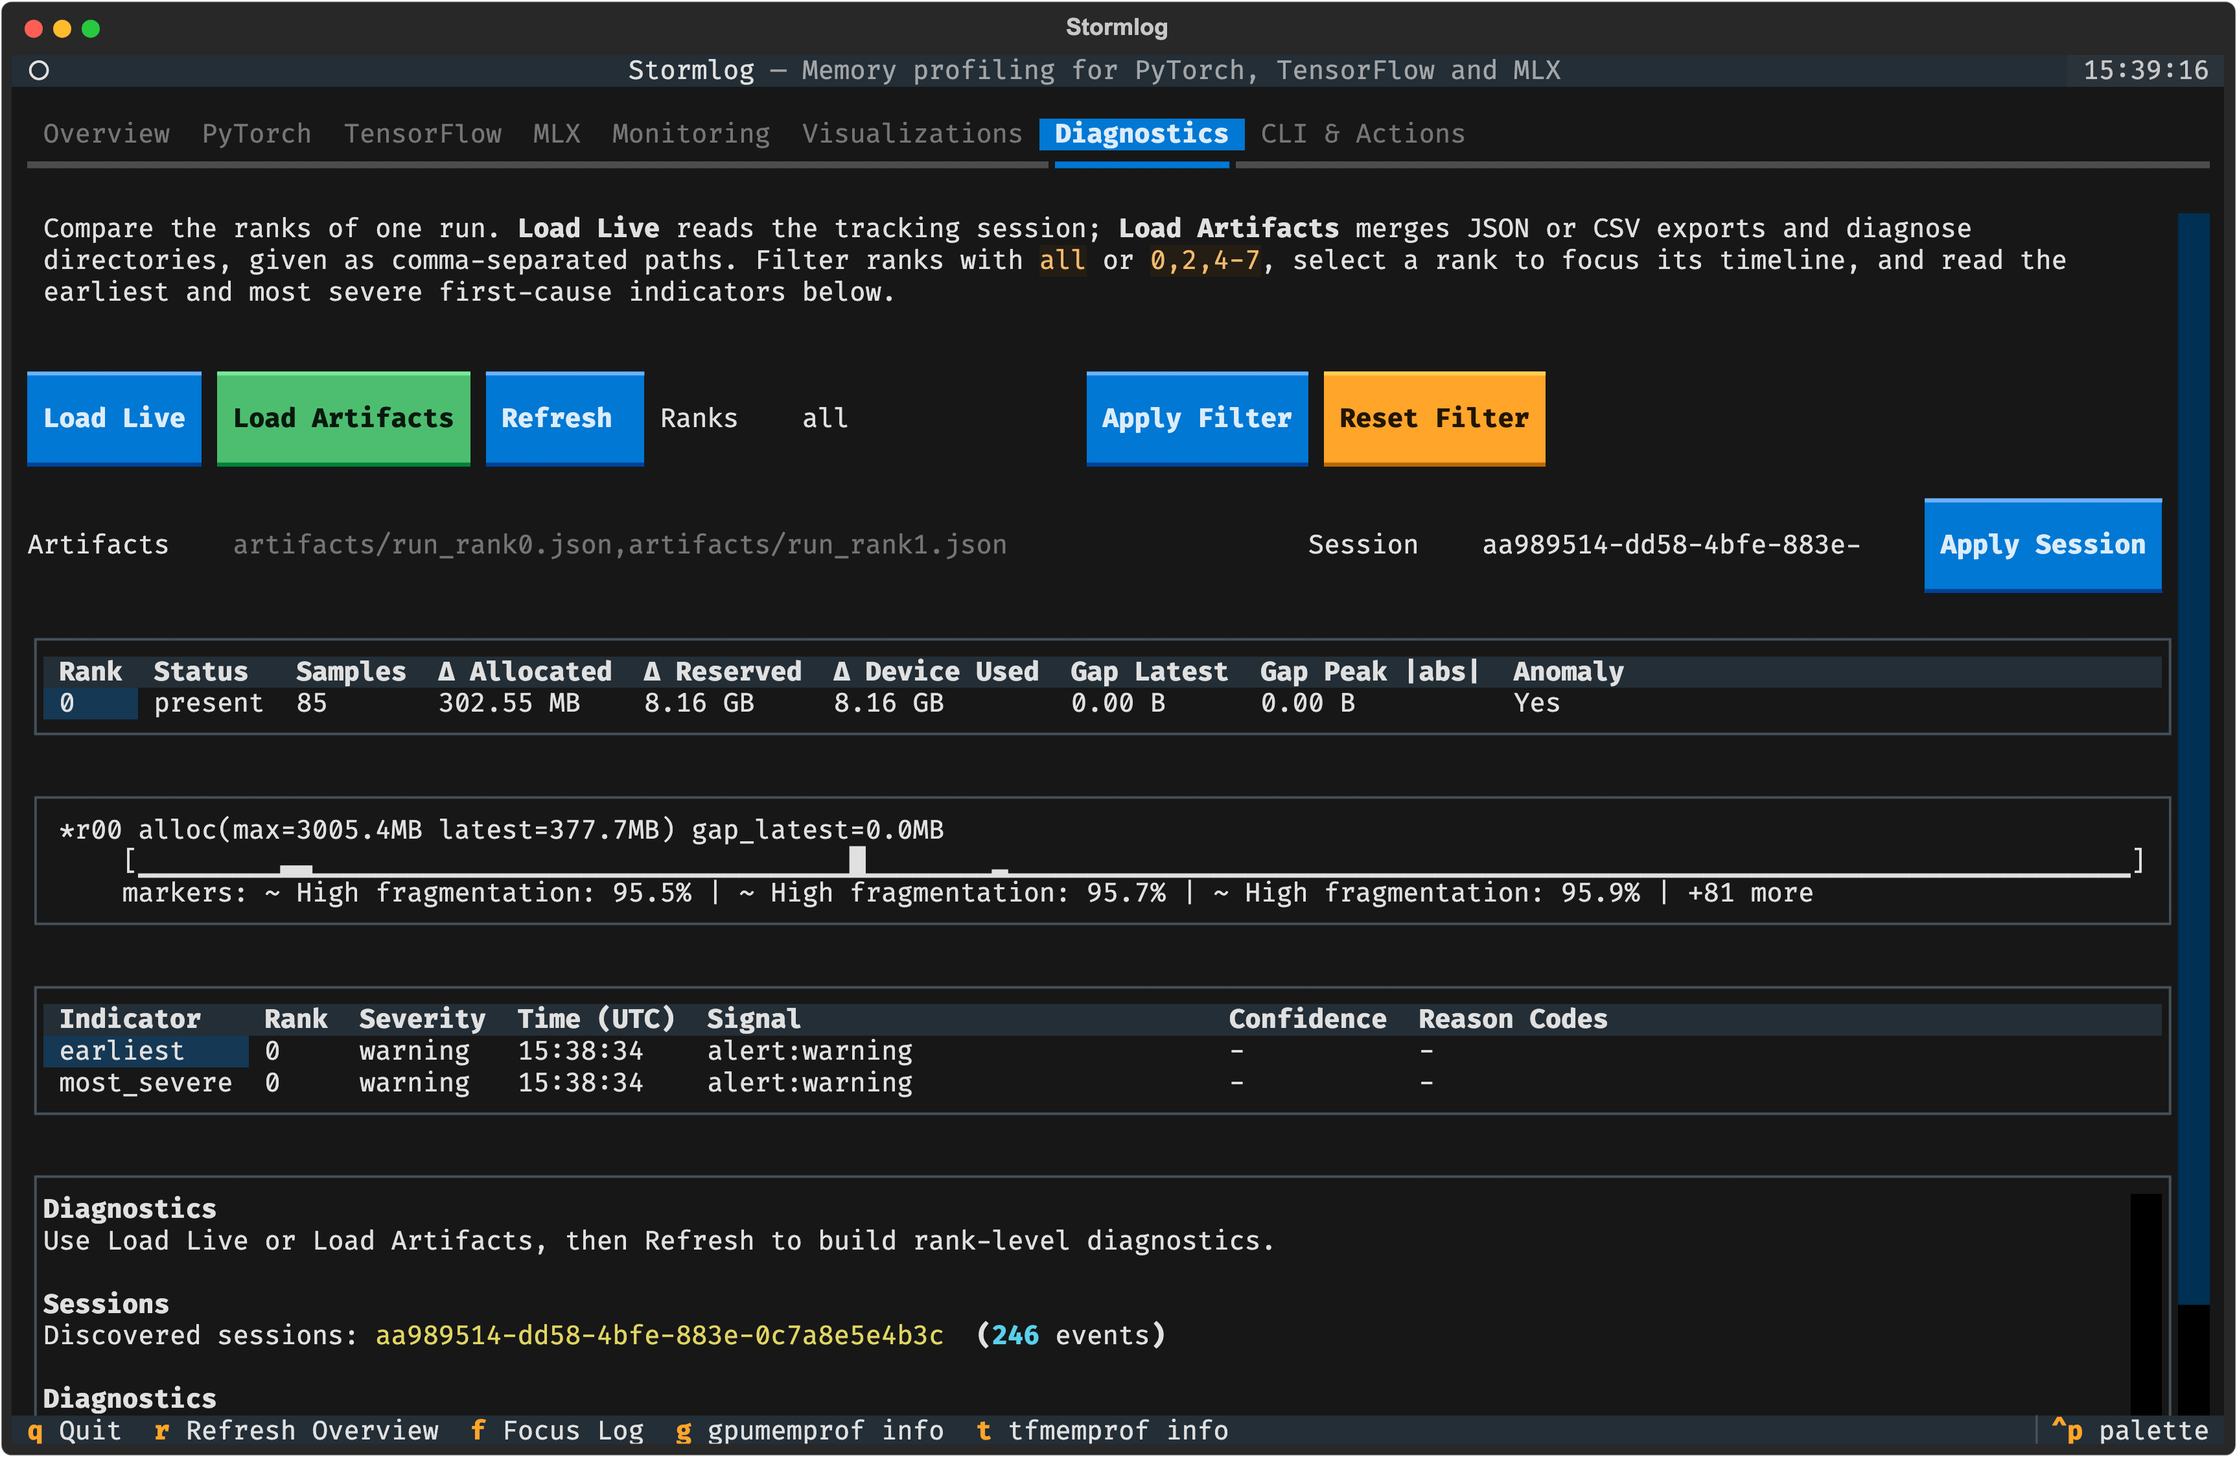
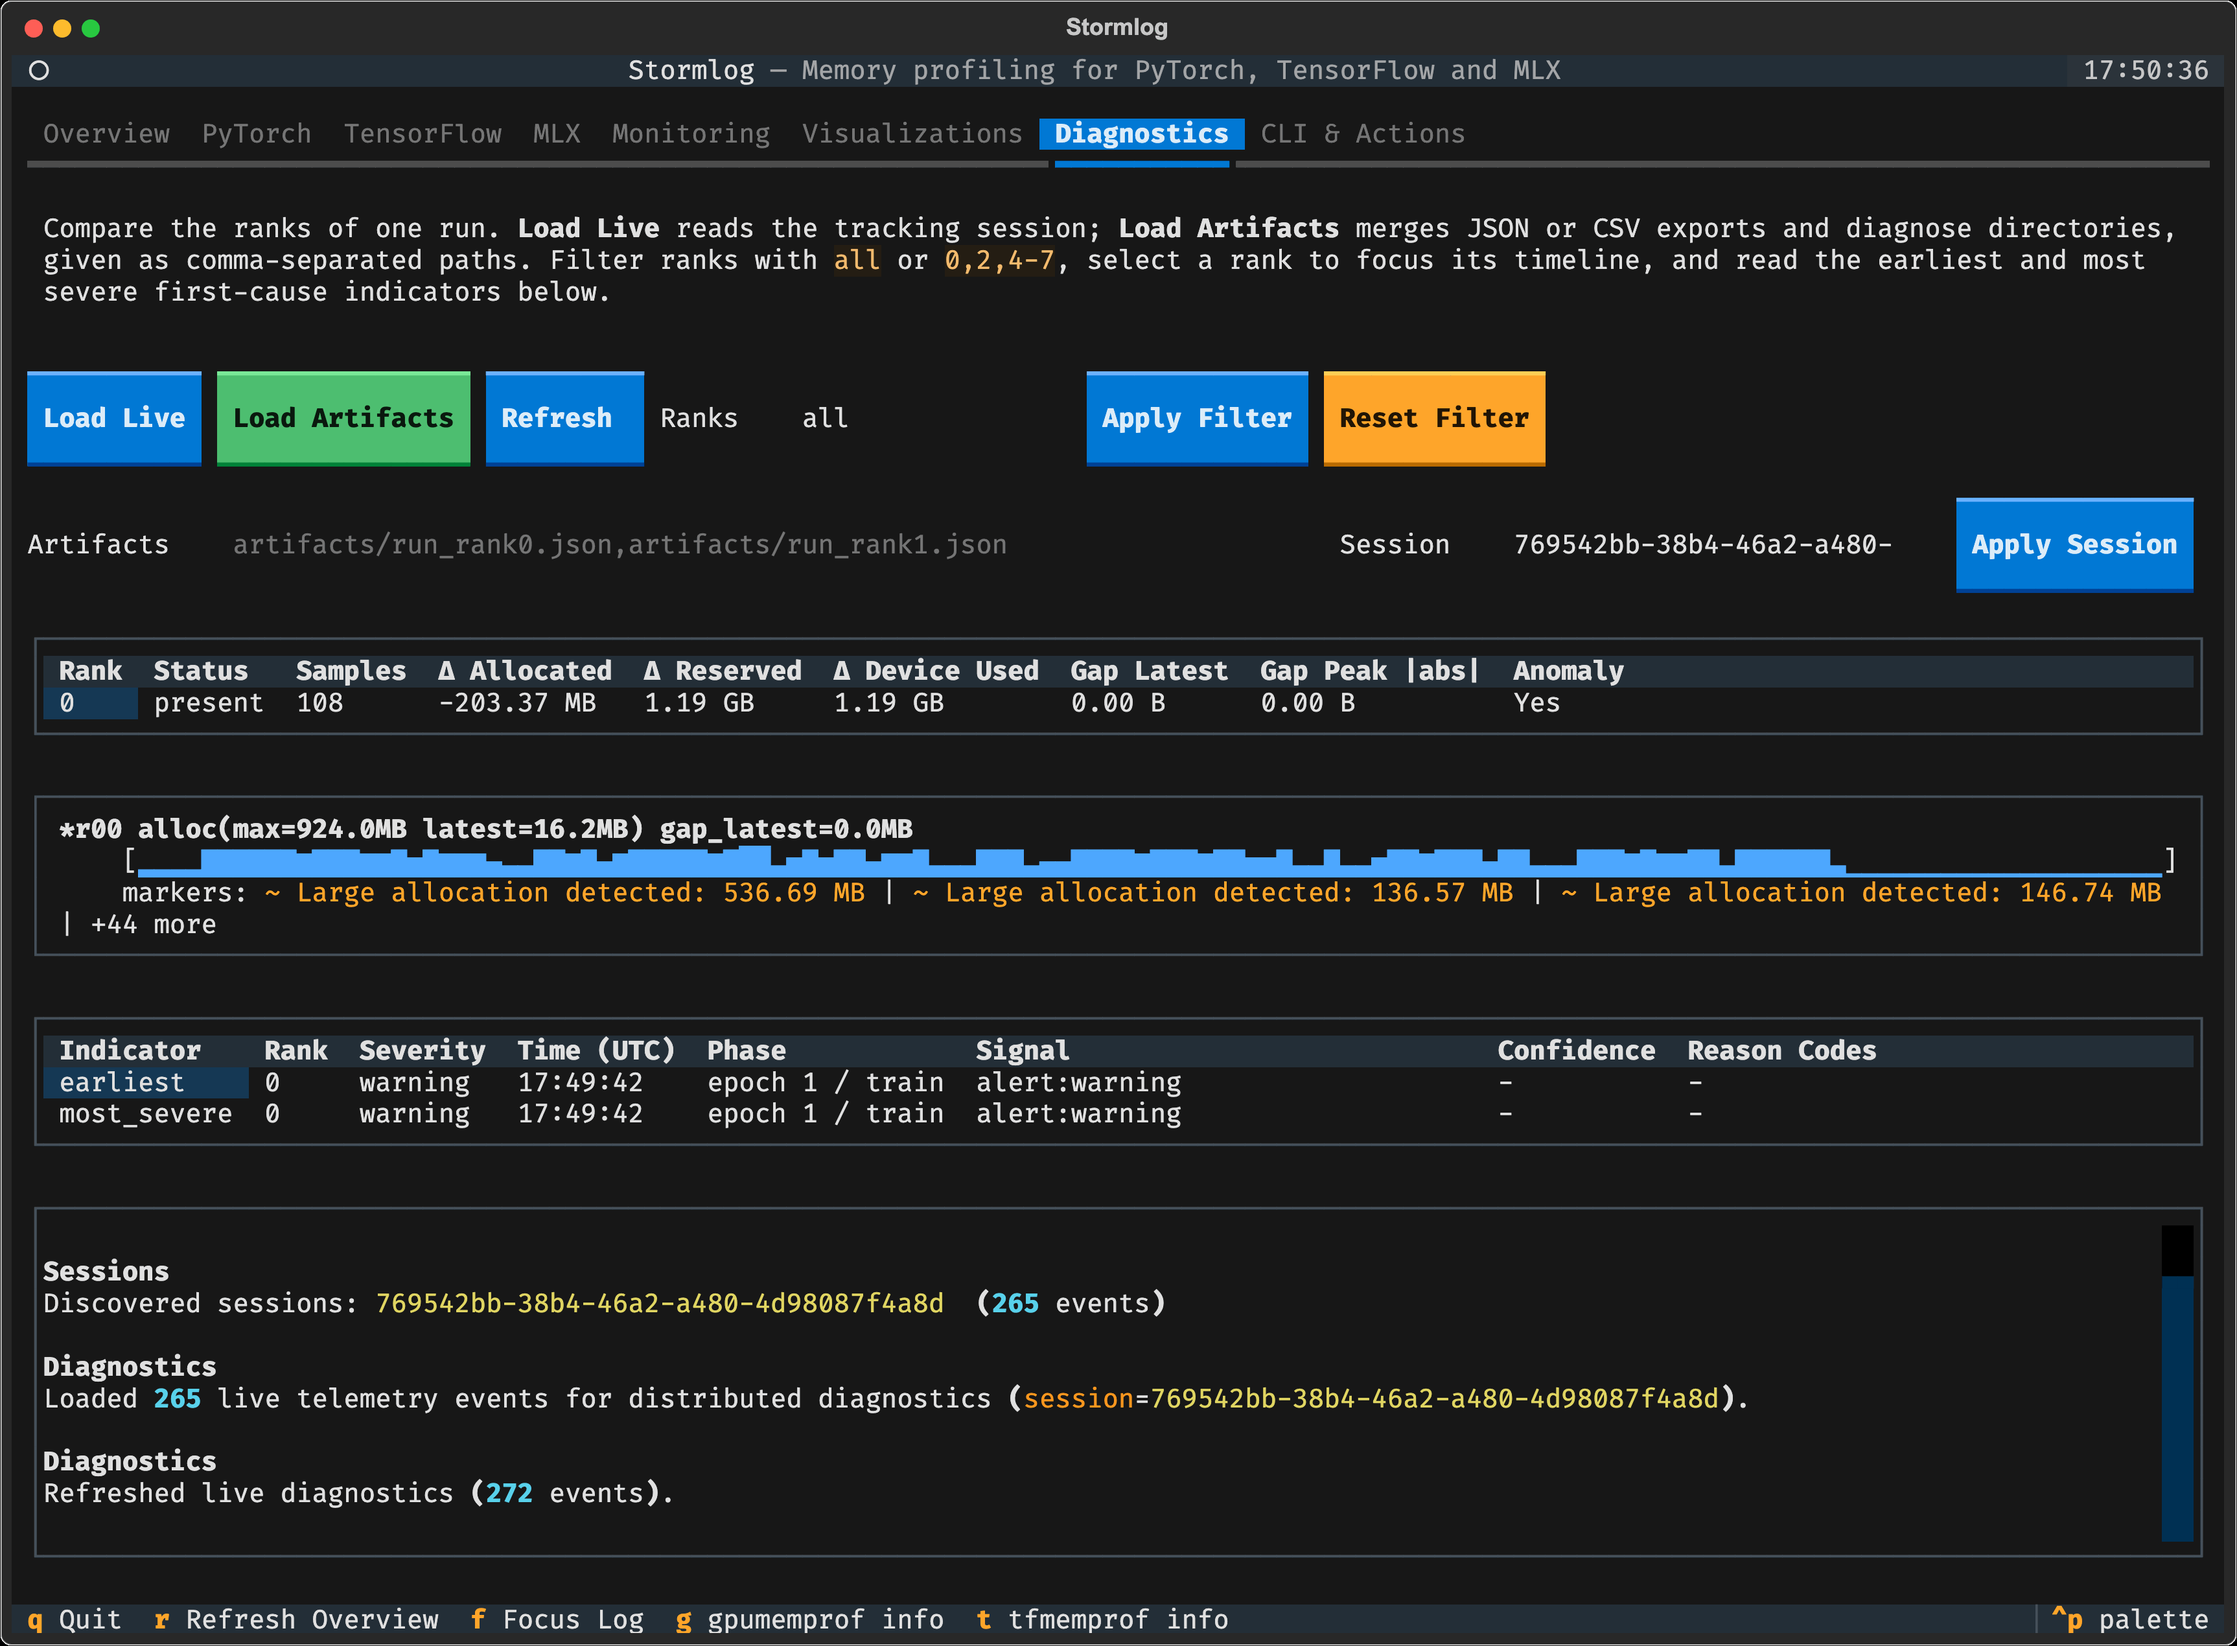
docs: show a real training run in the README and the TUI guide
The screenshots are retaken while ResNet-18 trains on CIFAR-10 for six
epochs on an NVIDIA L4 (87.8% test accuracy). The README's training
image is now the Diagnostics tab: the coloured memory timeline, its
markers, and the first anomaly attributed to epoch 1 / train. The
diagnosis screenshot is re-rendered in colour from the same L4 run's
output. The guide and changelog describe the phase column, the coloured
timelines and the fragmentation fix; the provenance record names the
workload and its result.

diff --git a/CHANGELOG.md b/CHANGELOG.md
@@ -539,8 +539,9 @@ the flaky benchmark memory gates
 ### Changed
 
 - The terminal UI is titled Stormlog. Its tabs have compact, labelled controls;
-  timelines span the panel in block elements; repeated alerts share one row
-  with a count, newest first; and the MLX tab describes its device in words.
+  timelines span the panel in coloured block elements, one colour per series;
+  repeated alerts share one row with a count, newest first; Diagnostics names
+  each indicator's phase; and the MLX tab describes its device in words.
 - The README is rewritten around training and inference, with screenshots
   taken on an NVIDIA L4 by `examples/scenarios/modal_readme_media.py`.
 - **Breaking:** `stormlog infer analyze` JSON is `analysis_version: 2`.
@@ -662,8 +663,20 @@ the flaky benchmark memory gates
 - The terminal UI's Markdown guides rendered empty, the PyTorch and TensorFlow
   samples never reached their tabs, and controls on the Monitoring and
   Diagnostics tabs were clipped. All three are fixed.
-- `MemoryTracker` no longer warns "High fragmentation" when nothing is
-  allocated. On Apple MPS every sample used to raise the warning.
+- Fragmentation means inactive split blocks over reserved memory everywhere,
+  as `gpumemprof diagnose` already defined it: the tracker's warning, the
+  derived `fragmentation_ratio`, gap analysis's `fragmentation_like` and the
+  analyzer. They took reserved minus allocated, which is PyTorch's reusable
+  cache, so an ordinary ResNet-18 run on an L4 read about 96% and warned on
+  every sample; that share is now `allocator_cache_ratio`. Without an
+  inactive-split counter fragmentation is unavailable (`None`), and the MPS
+  and CPU collectors no longer claim fragmentation analysis. The advice for
+  fragmentation no longer suggests `torch.cuda.empty_cache()`.
+- `MemoryTracker`'s first sample sets its baseline. Memory allocated before
+  tracking started, such as a model already on the device, counted as a
+  large allocation of the session and became its earliest anomaly.
+- The TUI's PyTorch and TensorFlow samples log their own run, not the shared
+  profiler's running totals.
 - `stormlog infer analyze` no longer keeps the first of two different
   deliveries of a request's vLLM span. That request, and any request with more
   than one span, is quarantined: its spans are left out of the case's span

diff --git a/docs/tui.md b/docs/tui.md
@@ -129,9 +129,9 @@ found, the Diagnostics tab defaults to the newest `completed` session and lets
 you switch to another one by entering its id in `Session` and applying it.
 Filter ranks in `Ranks`.
 
-If the loaded telemetry contains `phase_enter` / `phase_exit` records, rank rows
-and earliest-indicator details show the resolved phase path directly in the
-Diagnostics model.
+If the loaded telemetry contains `phase_enter` / `phase_exit` records, the
+indicator table's Phase column shows each indicator's resolved phase path,
+for example `epoch 1 / train`, and rank rows carry it in the Diagnostics model.
 
 When the product is choosing a useful winner from an otherwise ambiguous phase
 set, the TUI surfaces that with a `(likely)` marker instead of flattening it
@@ -180,8 +180,9 @@ Use this tab when you want to kick off a CLI flow and keep the output attached t
 3. Review the inline log output.
 4. If you need more detail, rerun the same command in a normal shell and archive the artifacts.
 
-The screenshots on this page come from the shipped TUI on an NVIDIA L4, with
-a PyTorch training loop running in the same process, except the MLX tab, which
+The screenshots on this page come from the shipped TUI on an NVIDIA L4 while
+ResNet-18 trained on CIFAR-10 for six epochs in the same process, each epoch's
+training and evaluation marked as tracker phases, except the MLX tab, which
 was taken on Apple Silicon. `examples/scenarios/tui_screenshots.py` takes them
 on any machine, and `examples/scenarios/modal_readme_media.py` reruns the L4
 capture on Modal.

diff --git a/README.md b/README.md
@@ -104,9 +104,9 @@ print(f"Peak: {profiler.get_summary()['peak_memory_usage'] / 1024**2:.1f} MB")
 ```
 
 <p align="center">
-  <img src="https://raw.githubusercontent.com/Silas-Asamoah/stormlog/main/docs/tui-visualizations-current.png" alt="Stormlog's terminal UI showing the memory timeline of a PyTorch training run" width="900">
+  <img src="https://raw.githubusercontent.com/Silas-Asamoah/stormlog/main/docs/tui-diagnostics-current.png" alt="Stormlog's terminal UI after ResNet-18 trained on CIFAR-10: the memory timeline, its markers, and the first anomaly attributed to epoch 1 / train" width="900">
   <br/>
-  <em>The terminal UI during a PyTorch training run on an NVIDIA L4: allocated memory per sample, and the caching allocator's reserved pool.</em>
+  <em>The terminal UI after ResNet-18 trained on CIFAR-10 for six epochs on an NVIDIA L4 (87.8% test accuracy): the memory timeline with its markers, and the first anomaly attributed to <code>epoch 1 / train</code>.</em>
 </p>
 
 ### Inference
